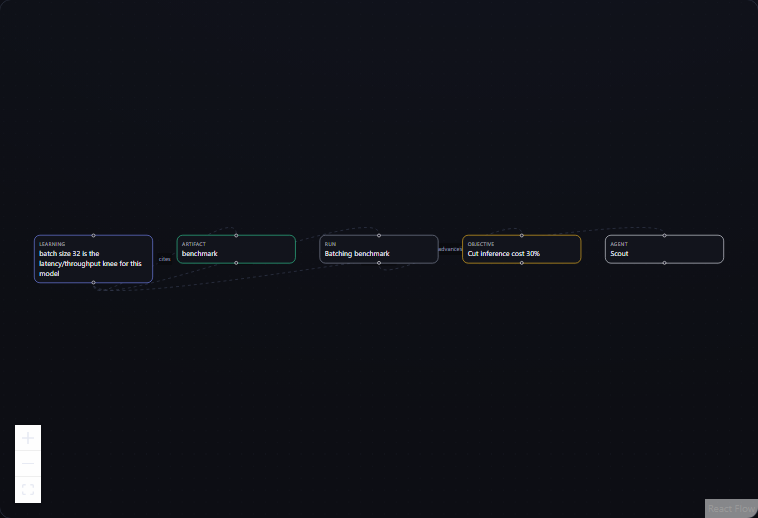
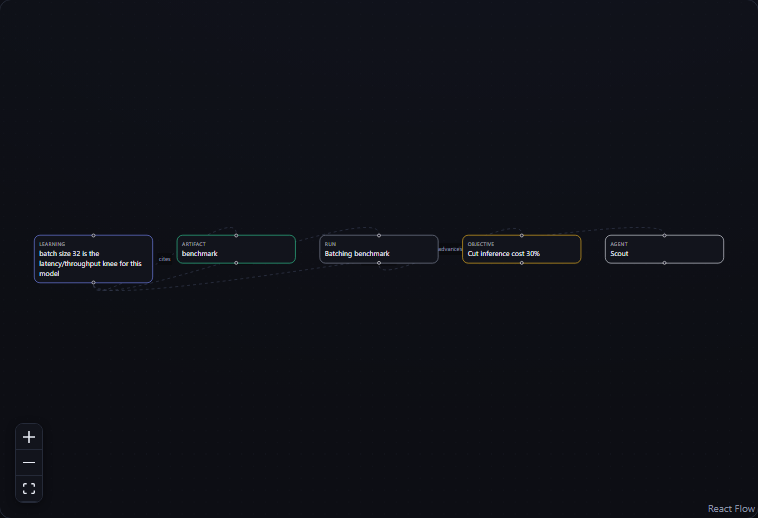
fix(web): force-override React Flow control theme; refresh graph screenshots

Changed region(s): [[0.0, 0.8031, 0.0607, 0.9884], [0.9103, 0.9575, 1.0, 1.0]]

diff --git a/packages/web/app/globals.css b/packages/web/app/globals.css
@@ -28,27 +28,27 @@ body {
   background: transparent;
 }
 
-/* React Flow zoom controls — the library ships a light theme; restyle to match the dark UI. */
+/* React Flow zoom controls — the library ships a light theme (imported via its own stylesheet in
+   the graph component, which wins the cascade for equal specificity), so override with !important. */
 .react-flow__controls {
-  border: 1px solid #252a38;
+  border: 1px solid #252a38 !important;
   border-radius: 8px;
   overflow: hidden;
-  box-shadow: 0 2px 8px rgba(0, 0, 0, 0.4);
+  box-shadow: 0 2px 8px rgba(0, 0, 0, 0.4) !important;
 }
 .react-flow__controls-button {
-  background: #12141c;
-  border-bottom: 1px solid #252a38;
-  color: #e7eaf3;
+  background: #12141c !important;
+  border-bottom: 1px solid #252a38 !important;
 }
 .react-flow__controls-button:hover {
-  background: #181b26;
+  background: #181b26 !important;
 }
 .react-flow__controls-button svg {
-  fill: #e7eaf3;
+  fill: #e7eaf3 !important;
 }
 .react-flow__attribution {
-  background: transparent;
+  background: transparent !important;
 }
 .react-flow__attribution a {
-  color: #8a92a6;
+  color: #8a92a6 !important;
 }